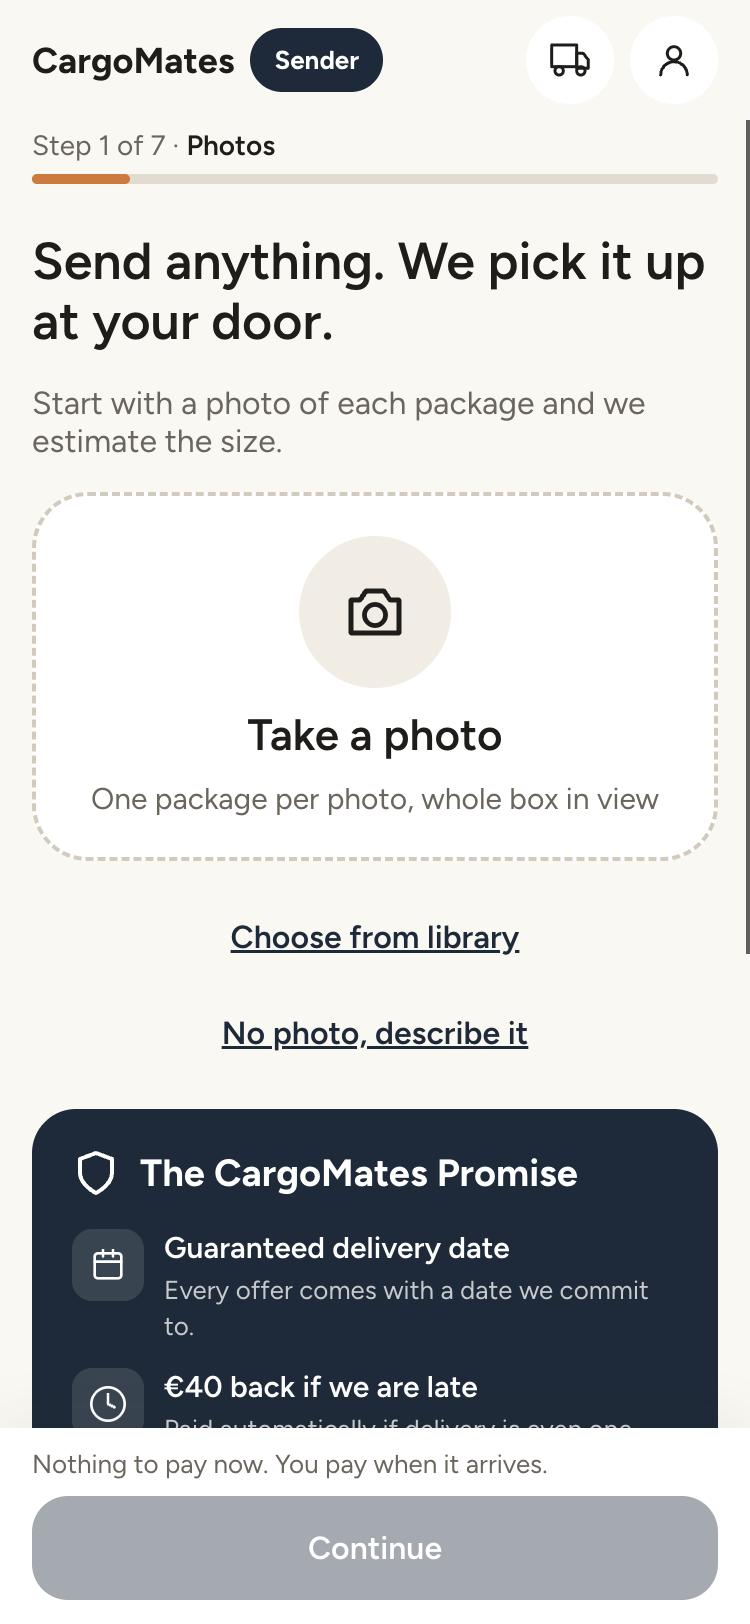
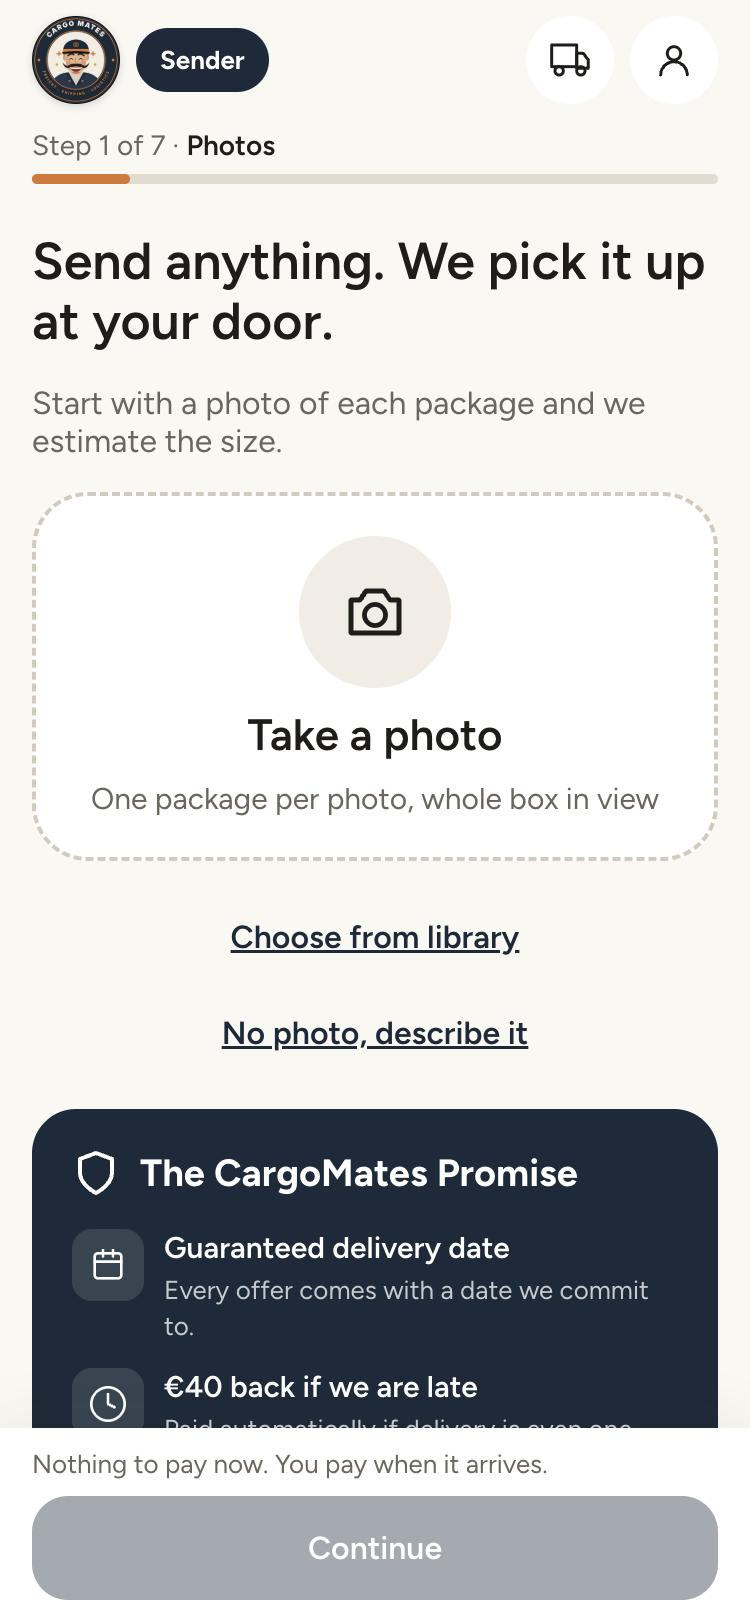
final of final

Changed region(s): [[0.0307, 0.0, 0.5213, 0.0616], [0.9813, 0.0616, 1.0, 0.585]]

diff --git a/src/store.js b/src/store.js
@@ -377,6 +377,7 @@ export const steps = computed(() => {
 // ---------------------------------------------------------------------------
 
 export function addPhotos(files) {
+  if (!state.shipment.photos.length) beginShipment()
   for (const f of files) {
     const estL = 30 + Math.floor(Math.random() * 50)
     const estW = 20 + Math.floor(Math.random() * 30)
@@ -540,10 +541,10 @@ export function setStatus(status) {
   }
 }
 
-export function pay() {
+// The current shipment as an entry in the order history
+function orderFromShipment(status) {
   const s = state.shipment
-  s.status = 'paid'
-  state.history.push({
+  return {
     id: 'h' + Date.now(),
     title: s.to ? s.to.name : '',
     from: s.from,
@@ -559,13 +560,28 @@ export function pay() {
     price: s.booking.price,
     note: s.booking.note || '',
     payMethod: s.payMethod,
-    paidDate: new Date().toISOString().slice(0, 10),
-    status: 'paid',
+    paidDate: status === 'paid' ? new Date().toISOString().slice(0, 10) : null,
+    status,
     abroad: isAbroad.value,
     code: s.booking.code,
-  })
+  }
+}
+
+export function pay() {
+  state.shipment.status = 'paid'
+  state.history.push(orderFromShipment('paid'))
   state.justPaid = true
   go('history')
+}
+
+// Starting from the empty start page always begins a clean shipment.
+// One that is still under way moves into the order history first, so it is not overwritten.
+export function beginShipment() {
+  const s = state.shipment
+  if (bidTimer) { clearTimeout(bidTimer); bidTimer = null }
+  if (s.booking && ['booked', 'onway', 'arrived'].includes(s.status)) state.history.push(orderFromShipment(s.status))
+  Object.assign(s, freshShipment())
+  state.justPaid = false
 }
 
 // Every order the sender has: past ones plus the shipment in progress (not in history until paid)
@@ -592,9 +608,7 @@ export function payOrder(id) {
 }
 
 export function startNew() {
-  if (bidTimer) { clearTimeout(bidTimer); bidTimer = null }
-  Object.assign(state.shipment, freshShipment())
-  state.justPaid = false
+  beginShipment()
   go('photos')
 }
 

diff --git a/src/views/Profile.vue b/src/views/Profile.vue
@@ -78,6 +78,15 @@ function back() {
         </div>
       </section>
 
+      <button v-if="!asDriver" class="card link-card" @click="go('calendar')">
+        <span class="link-icon"><Icon name="calendar" :size="22" /></span>
+        <span class="row-main">
+          <span class="row-route">Calendar</span>
+          <span class="muted row-sub">Pickups, deliveries and payments by date</span>
+        </span>
+        <Icon name="next" :size="18" class="muted" />
+      </button>
+
       <section class="list">
         <h2 class="section-title">{{ asDriver ? 'Completed orders' : 'Your orders' }}</h2>
         <p v-if="!rows.length" class="muted">{{ asDriver ? 'No completed jobs yet.' : 'No orders yet.' }}</p>
@@ -114,6 +123,8 @@ function back() {
 .stat-n { font-size: 19px; font-weight: 700; white-space: nowrap; }
 .stat-label { font-size: 13px; }
 
+.link-card { width: 100%; border: 0; text-align: left; display: flex; align-items: center; gap: 12px; min-height: 68px; }
+.link-icon { width: 44px; height: 44px; border-radius: 12px; background: var(--soft); color: var(--navy); display: flex; align-items: center; justify-content: center; flex: none; }
 .list { display: flex; flex-direction: column; gap: 10px; }
 .section-title { font-size: 20px; font-weight: 600; margin: 4px 0 0; }
 .row-card { width: 100%; display: flex; align-items: center; gap: 12px; padding: 14px 16px; border: 1.5px solid var(--line); border-radius: var(--radius); background: var(--card); text-align: left; }

diff --git a/src/views/DriverPackage.vue b/src/views/DriverPackage.vue
@@ -1,6 +1,6 @@
 <script setup>
 import { ref, computed } from 'vue'
-import { state, go, eur, driverBid, driverConfirmPickup, driverGoTracking, PICKUP_TIMES, PICKUP_LOCATIONS, transitPercent, kmLeft, driverArrive, driverAccept } from '../store.js'
+import { state, go, eur, driverBid, driverConfirmPickup, driverGoTracking, PICKUP_TIMES, PICKUP_LOCATIONS, transitPercent, kmLeft, driverArrive, driverAccept, fmtDay } from '../store.js'
 import Icon from '../components/Icon.vue'
 import RouteMap from '../components/RouteMap.vue'
 
@@ -154,7 +154,7 @@ const canDropoff = computed(() => pkg.value && pkg.value.status === 'at-destinat
       <div v-else-if="pkg.status === 'delivered'" class="status-panel card">
         <div class="check-circle done-circle"><Icon name="check" :size="28" /></div>
         <h2>Delivered</h2>
-        <p class="muted">Completed on {{ pkg.deliveredDate }}</p>
+        <p class="muted">Completed on {{ fmtDay(pkg.deliveredDate) }}</p>
       </div>
     </div>
 

diff --git a/preview.html b/preview.html
@@ -1,4 +1,5 @@
 <title>CargoMates Booking</title>
+<link rel="icon" type="image/jpeg" href="public/logo.jpg">
 <meta name="claude:viewport-fit-sides" content="cover">
 <link rel="stylesheet" href="https://fonts.googleapis.com/css2?family=Figtree:wght@400;500;600;700&display=swap">
 <style>
@@ -21,6 +22,11 @@
       console.error(err)
       boot.textContent = 'Could not start the prototype: ' + (err && err.message ? err.message : err)
     }
+    // This page is served from the repository root, so files Vite serves from public/ live under public/ here
+    document.addEventListener('error', (e) => {
+      const img = e.target
+      if (img.tagName === 'IMG' && /\/logo\.jpg$/.test(img.src) && !img.src.includes('/public/')) img.src = 'public/logo.jpg'
+    }, true)
     try {
       const clean = (p) => String(p).replace(/^\.?\//, '')
       const css = await fetch('src/style.css').then((r) => r.text())

diff --git a/src/views/Calendar.vue b/src/views/Calendar.vue
@@ -1,6 +1,6 @@
 <script setup>
 import { ref, computed } from 'vue'
-import { state, go, fmtDay, packageLabel, startNew, switchMode, senderHome } from '../store.js'
+import { state, go, fmtDay, packageLabel, startNew, switchMode } from '../store.js'
 import Icon from '../components/Icon.vue'
 
 const s = state.shipment
@@ -68,7 +68,7 @@ const draft = computed(() => s.status === 'draft' && (s.count || s.to))
 <template>
   <div class="page">
     <header class="topbar wrap">
-      <button class="btn btn-round" aria-label="Back to your shipment" @click="go(senderHome())"><Icon name="back" /></button>
+      <button class="btn btn-round" aria-label="Back to your profile" @click="go('profile')"><Icon name="back" /></button>
       <div class="brand keep">Calendar</div>
       <button class="role-tag" aria-label="Sender home" @click="go('photos')">Sender</button>
       <div class="spacer" />

diff --git a/src/components/PageLayout.vue b/src/components/PageLayout.vue
@@ -6,7 +6,6 @@ import Icon from './Icon.vue'
 
 defineProps({
   back: { type: String, default: '' },
-  calendar: { type: Boolean, default: false },
 })
 
 const showSteps = ref(false)
@@ -27,7 +26,6 @@ const stepNow = computed(() => {
       <button class="role-tag" aria-label="Sender home" @click="go('photos')">Sender</button>
       <div class="spacer" />
       <button class="btn btn-pill collapse" aria-label="Driver" @click="switchMode('driver')"><Icon name="truck" :size="20" /><span class="lbl">Driver</span></button>
-      <button v-if="calendar" class="btn btn-pill collapse" aria-label="Calendar" @click="go('calendar')"><Icon name="calendar" :size="20" /><span class="lbl">Calendar</span></button>
       <button class="btn btn-pill collapse" aria-label="Profile" @click="go('profile')"><Icon name="user" :size="20" /><span class="lbl">Profile</span></button>
     </header>
 

diff --git a/src/views/History.vue b/src/views/History.vue
@@ -51,7 +51,6 @@ function statusClass(s) {
       <button class="brand" aria-label="CargoMates home" @click="go('home')"><img class="logo" src="/logo.jpg" alt="CargoMates" width="44" height="44"></button>
       <button class="role-tag" aria-label="Sender home" @click="go('photos')">Sender</button>
       <div class="spacer" />
-      <button class="btn btn-pill collapse" aria-label="Calendar" @click="go('calendar')"><Icon name="calendar" :size="20" /><span class="lbl">Calendar</span></button>
       <button class="btn btn-pill collapse" aria-label="Profile" @click="go('profile')"><Icon name="user" :size="20" /><span class="lbl">Profile</span></button>
     </header>
 

diff --git a/src/views/DriverTracking.vue b/src/views/DriverTracking.vue
@@ -1,6 +1,6 @@
 <script setup>
 import { computed } from 'vue'
-import { state, go, driverBackToJobs } from '../store.js'
+import { state, go, driverBackToJobs, fmtDay } from '../store.js'
 import Icon from '../components/Icon.vue'
 
 const pkg = computed(() => state.driverActive)
@@ -48,7 +48,7 @@ const print = () => window.print()
               </div>
               <div class="label-row">
                 <span class="label-key">PICKUP</span>
-                <span class="label-val">{{ pkg.pickup }}</span>
+                <span class="label-val">{{ fmtDay(pkg.pickup) }}</span>
               </div>
             </div>
 

diff --git a/src/views/Photos.vue b/src/views/Photos.vue
@@ -1,6 +1,6 @@
 <script setup>
 import { ref, computed } from 'vue'
-import { state, go, addPhotos, removePhoto, packageLabel, senderHome } from '../store.js'
+import { state, go, addPhotos, removePhoto, packageLabel, senderHome, beginShipment } from '../store.js'
 import PageLayout from '../components/PageLayout.vue'
 import Icon from '../components/Icon.vue'
 import Guarantees from '../components/Guarantees.vue'
@@ -23,7 +23,8 @@ function onDrop(e) {
 }
 
 function noPhoto() {
-  if (!s.count) s.count = 1
+  beginShipment()
+  s.count = 1
   go('details')
 }
 

diff --git a/index.html b/index.html
@@ -4,6 +4,8 @@
   <meta charset="utf-8">
   <meta name="viewport" content="width=device-width, initial-scale=1, viewport-fit=cover">
   <title>CargoMates</title>
+  <link rel="icon" type="image/jpeg" href="/logo.jpg">
+  <link rel="apple-touch-icon" href="/logo.jpg">
   <link rel="preconnect" href="https://fonts.googleapis.com">
   <link rel="stylesheet" href="https://fonts.googleapis.com/css2?family=Figtree:wght@400;500;600;700&display=swap">
 </head>

diff --git a/src/views/Arrived.vue b/src/views/Arrived.vue
@@ -10,7 +10,7 @@ const METHODS = PAY_METHODS
 </script>
 
 <template>
-  <PageLayout back="onway" calendar>
+  <PageLayout back="onway">
     <template v-if="s.booking">
       <template v-if="s.status !== 'paid'">
         <h1 class="h1">It arrived. {{ s.booking.hub ? 'Pick it up any time.' : 'Delivered to the door.' }}</h1>

diff --git a/src/views/OnTheWay.vue b/src/views/OnTheWay.vue
@@ -31,7 +31,7 @@ function skipAhead() {
 </script>
 
 <template>
-  <PageLayout back="booked" calendar>
+  <PageLayout back="booked">
     <template v-if="s.booking">
       <h1 class="h1">{{ isClose ? 'Almost there.' : 'On the way.' }}{{ isAbroad && !isClose ? ' Border cleared.' : '' }}</h1>
       <p class="sub">
